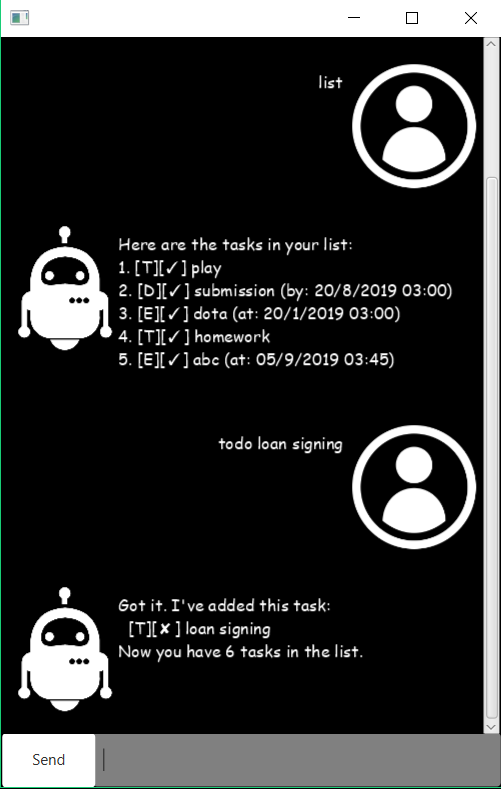
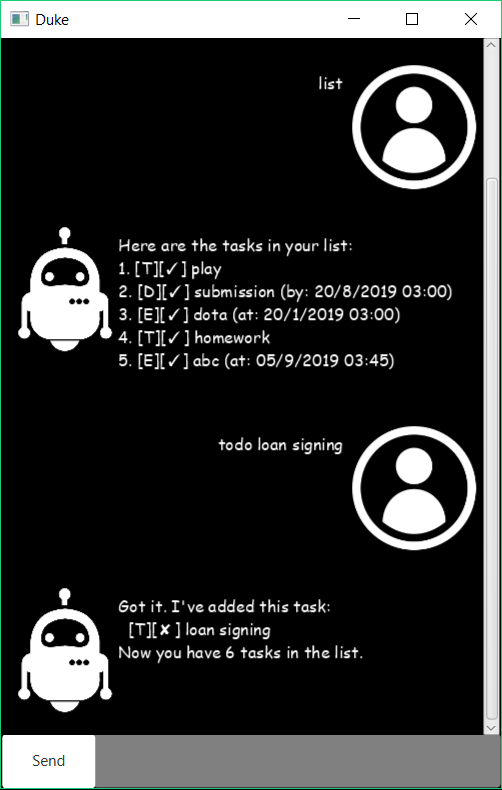
refactor code

diff --git a/src/main/java/ui/Ui.java b/src/main/java/ui/Ui.java
@@ -1,33 +1,52 @@
 package ui;
 
+import javafx.MainWindow;
+
 /**
  * User interface to communicate with user.
  * Responsible for every output printing.
  */
 public class Ui {
 
+    private static MainWindow javafx;
+
+    /**
+     * Bind this Ui to javafx MainWindow for output printing.
+     * @param window a javafx scene.
+     */
+    public static void bindWindow(MainWindow window) {
+        javafx = window;
+    }
+
+    /**
+     * Show messages on the javafx window.
+     * @param msg can be warnings / information to show to user.
+     */
+    private void showMessages(String msg) {
+        javafx.showMessage(msg);
+    }
+
     /**
      * Shows greeting message at start of the program.
      */
-    public String showWelcome() {
-        return "Hello from! I'm Duke\n"
-                + "What can I do for you?";
+    public void showWelcome() {
+        showMessages("Hello from! I'm Duke\n"
+                + "What can I do for you?");
     }
 
     /**
-     * Prints out the error.
-     * @param e the error message.
-     * @return the error message as String.
+     * Shows storage creating error.
      */
-    public String showError(String e) {
-        return e;
+    public void showStorageError() {
+        showMessages("File corrupted / File path doesnt exist.\n"
+                + "You can still use Duke, but progress will not be saved");
     }
 
     /**
-     * Prints out error about unable to load data stored in user's hard disk.
+     * Show error about unable to load data stored in user's hard disk.
      */
-    public String showLoadingError() {
-        return showError("Note: task.TaskList storage is initially empty / the file is corrupted\n"
+    public void showTaskLoadingError() {
+        showMessages("Note: TaskList storage is initially empty / the file is corrupted\n"
                 + "New empty file will be created.");
     }
 

diff --git a/src/main/java/storage/Storage.java b/src/main/java/storage/Storage.java
@@ -1,14 +1,15 @@
 package storage;
 
 import exception.DukeException;
+import task.Deadline;
+import task.Event;
 import task.Task;
 import task.TaskList;
 import task.ToDo;
-import task.Event;
-import task.Deadline;
 
 import java.io.File;
 import java.io.FileNotFoundException;
+import java.io.IOException;
 import java.io.PrintWriter;
 import java.text.ParseException;
 import java.util.ArrayList;
@@ -26,13 +27,12 @@ public class Storage {
      * Storage Constructor.
      * @param filepath the file location in local pc.
      */
-    public Storage(String filepath) throws DukeException {
+    public Storage(String filepath) throws IOException {
         this.filepath = filepath;
-        try {
-            this.sc = new Scanner(new File(this.filepath));
-        } catch (FileNotFoundException e) {
-            throw new DukeException("No such file exits");
-        }
+
+        File file = new File(this.filepath);
+        file.createNewFile(); // This should create a new file if file is not already exists.
+        this.sc = new Scanner(new File(this.filepath));
 
         assert sc != null : "Scanner should not be NULL";
         assert filepath != null : "Filepath should not be NULL";
@@ -70,7 +70,7 @@ public class Storage {
                 } else if (input[0].equals("[E]")) {
                     tasks.add(new Event(input[1], input[2], input[3]));
                 } else {
-                    continue;
+                    throw new DukeException("Load fails");
                 }
             }
             return tasks;

diff --git a/src/main/java/duke/Duke.java b/src/main/java/duke/Duke.java
@@ -9,6 +9,8 @@ import task.TaskList;
 import task.UndoStack;
 import ui.Ui;
 
+import java.io.IOException;
+
 /**
  * Main Duke bot class.
  * Used to instantiate your personal Duke bot.
@@ -25,11 +27,11 @@ public class Duke {
      */
     public Duke() {
         ui = new Ui();
+        ui.showWelcome();
         try {
             storage = new Storage("data/tasks.txt");
-        } catch (DukeException e) {
-            System.err.println(e);
-            System.out.println("You can still use Duke, but progress will not be saved");
+        } catch (IOException e) {
+            ui.showStorageError();
             storage = new FakeStorage();
         }
 
@@ -38,7 +40,7 @@ public class Duke {
         try {
             tasks = new TaskList(storage.load());
         } catch (DukeException e) {
-            System.out.println(ui.showLoadingError());
+            ui.showTaskLoadingError();
             tasks = new TaskList();
         }
 
@@ -53,15 +55,7 @@ public class Duke {
             Command c = Parser.parse(command);
             return c.execute(tasks, ui, storage);
         } catch (DukeException e) {
-            return ui.showError(e.getMessage());
+            return e.getMessage();
         }
-    }
-
-    /**
-     * Outputs a welcome message when Duke is started.
-     * @return the welcome message as String
-     */
-    public String showWelcome() {
-        return ui.showWelcome();
     }
 }

diff --git a/src/main/java/javafx/MainWindow.java b/src/main/java/javafx/MainWindow.java
@@ -8,6 +8,7 @@ import javafx.scene.control.TextField;
 import javafx.scene.image.Image;
 import javafx.scene.layout.AnchorPane;
 import javafx.scene.layout.VBox;
+import ui.Ui;
 
 /**
  * Controller for javafx.MainWindow. Provides the layout for the other controls.
@@ -34,13 +35,10 @@ public class MainWindow extends AnchorPane {
 
     /**
      * initialise Duke.
-     * @param d the constructed Duke object instance.
      */
-    public void setDuke(Duke d) {
-        duke = d;
-        dialogContainer.getChildren().addAll(
-                DialogBox.getDukeDialog(duke.showWelcome(), dukeImage)
-        );
+    public void setDuke() {
+        Ui.bindWindow(this);
+        duke = new Duke();
     }
 
     /**
@@ -65,4 +63,13 @@ public class MainWindow extends AnchorPane {
         userInput.clear();
     }
 
+    /**
+     * Shows messages for user.
+     * @param msg can be warnings, or some information regarding the system.
+     */
+    public void showMessage(String msg) {
+        dialogContainer.getChildren().addAll(
+                DialogBox.getDukeDialog(msg, dukeImage)
+        );
+    }
 }

diff --git a/src/main/java/Main.java b/src/main/java/Main.java
@@ -1,4 +1,3 @@
-import duke.Duke;
 import javafx.MainWindow;
 import javafx.application.Application;
 import javafx.fxml.FXMLLoader;
@@ -13,8 +12,6 @@ import java.io.IOException;
  */
 public class Main extends Application {
 
-    private Duke duke = new Duke();
-
     /**
      * Starts the GUI stage for Duke application.
      * @param stage the javafx stage.
@@ -26,7 +23,8 @@ public class Main extends Application {
             AnchorPane ap = fxmlLoader.load();
             Scene scene = new Scene(ap);
             stage.setScene(scene);
-            fxmlLoader.<MainWindow>getController().setDuke(duke);
+            fxmlLoader.<MainWindow>getController().setDuke();
+            stage.setTitle("Duke");
             stage.show();
         } catch (IOException e) {
             e.printStackTrace();

diff --git a/src/test/java/command/ListCommandTest.java b/src/test/java/command/ListCommandTest.java
@@ -1,0 +1,17 @@
+package command;
+
+import org.junit.jupiter.api.Test;
+import storage.FakeStorage;
+import task.TaskList;
+import ui.Ui;
+
+import static org.junit.jupiter.api.Assertions.assertEquals;
+
+class ListCommandTest {
+
+    @Test
+    void execute() {
+        assertEquals("Here are the tasks in your list:\n",
+                new ListCommand().execute(new TaskList(), new Ui(), new FakeStorage()));
+    }
+}

diff --git a/src/test/java/ui/UiTest.java b/src/test/java/ui/UiTest.java
@@ -2,13 +2,10 @@ package ui;
 
 import org.junit.jupiter.api.Test;
 
-import static org.junit.jupiter.api.Assertions.assertEquals;
-
 class UiTest {
 
     @Test
     void showLoadingError() {
-        assertEquals("Note: task.TaskList storage is initially empty / the file is corrupted\n"
-                + "New empty file will be created.", new Ui().showLoadingError());
+
     }
 }

diff --git a/src/test/java/task/ToDoTest.java b/src/test/java/task/ToDoTest.java
@@ -1,0 +1,14 @@
+package task;
+
+import org.junit.jupiter.api.Test;
+
+import static org.junit.jupiter.api.Assertions.assertEquals;
+
+class ToDoTest {
+
+    @Test
+    void testToString() {
+        assertEquals("[T] | 1 | play",
+                new ToDo("play").toDataBase());
+    }
+}

diff --git a/docs/README.md b/docs/README.md
@@ -32,8 +32,11 @@ track in this era of increasingly busy lifestyle.
 ## 3. Getting Started
 
 ### 3.1 Install Duke
-Go to [Duke](https://github.com/honhaochen/duke). Click `clone or download` and download the zip file. 
-Extract the `jar` file and you may start having fun with it! 
+* Go to [Duke](https://github.com/honhaochen/duke). 
+* Click `clone or download` and download the zip file. 
+* Extract the `jar` file.
+* Create a folder name `data` along side with your `jar` file to save your progress inside it.
+* You may start having fun with it now! 
 
 ### 3.2 How to use
 
